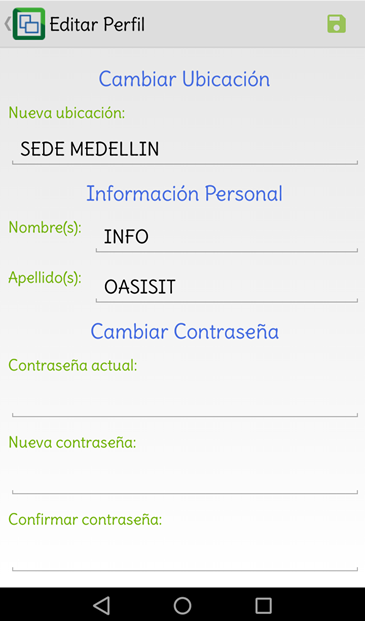
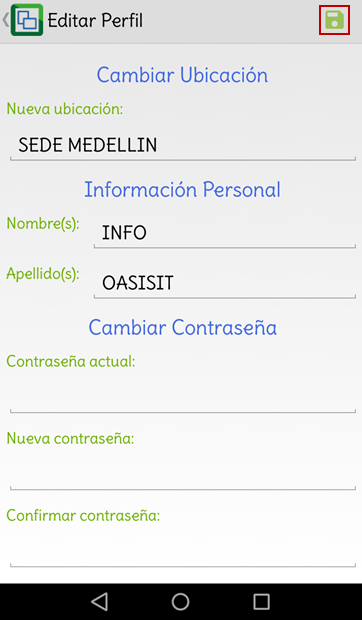
moviel

diff --git a/Operacion/movil/movil.md b/Operacion/movil/movil.md
@@ -41,6 +41,9 @@ Para realizar alguno de estos cambios, damos click en el botón ![](configuracio
 
 ![](movil14.png)
 
+A continuación, se podrá realizar los cambios de perfil que requiera el usuario y guardarlos dando click en el botón ![](guardar.png).  
+
+![](movil15.png)
 
 
 
